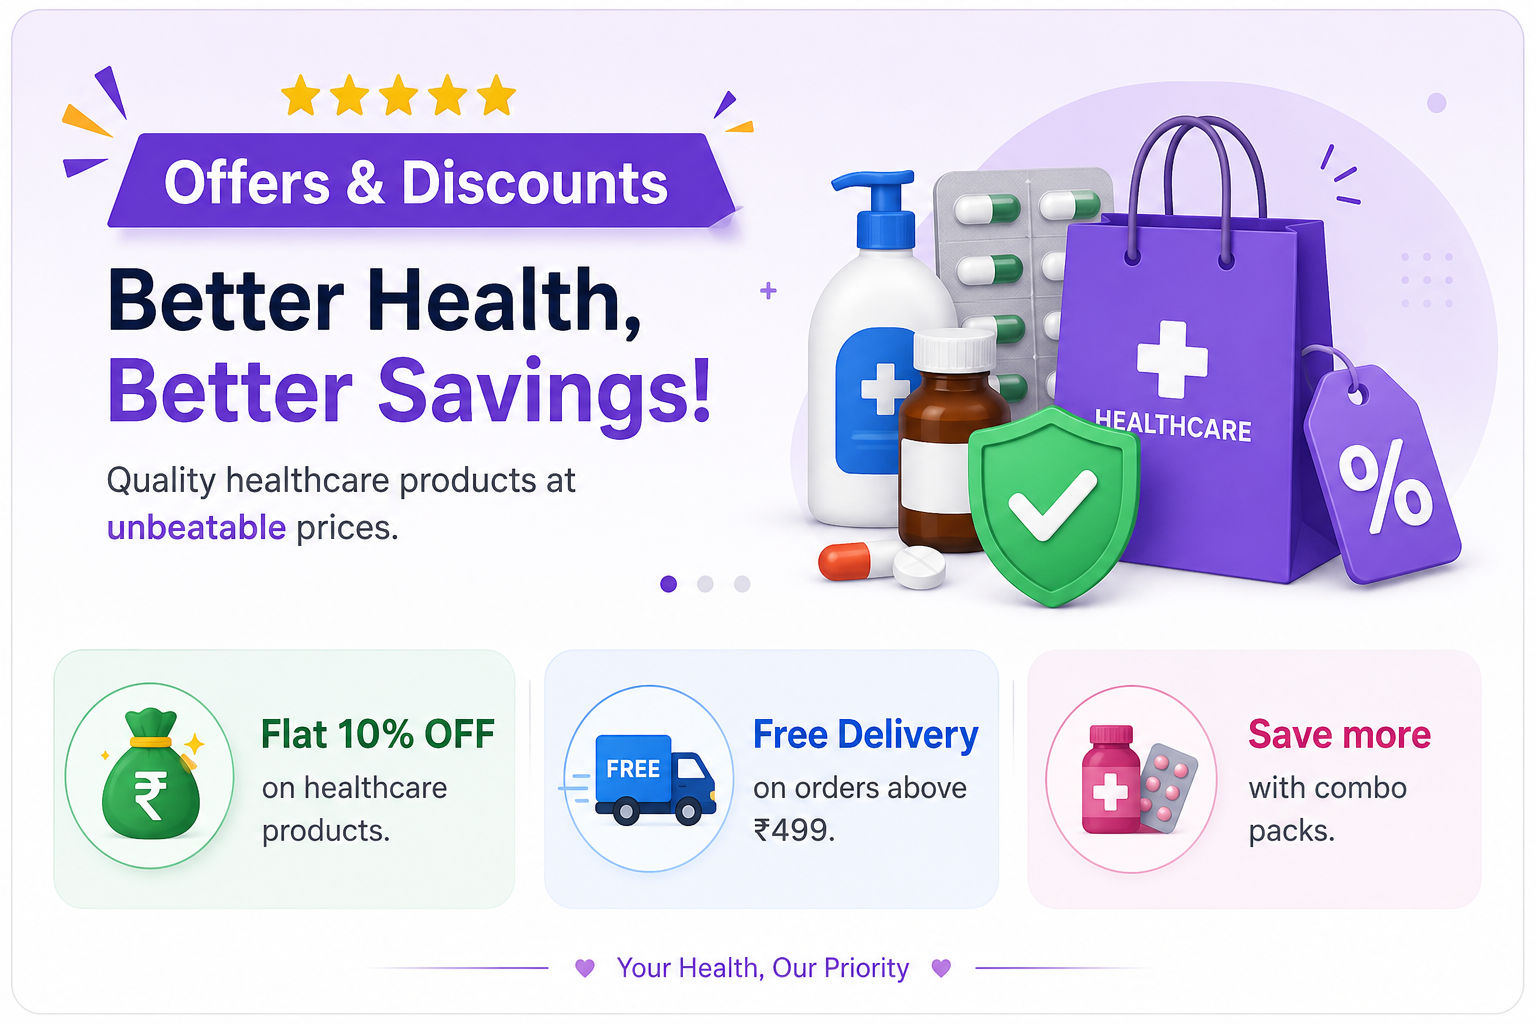
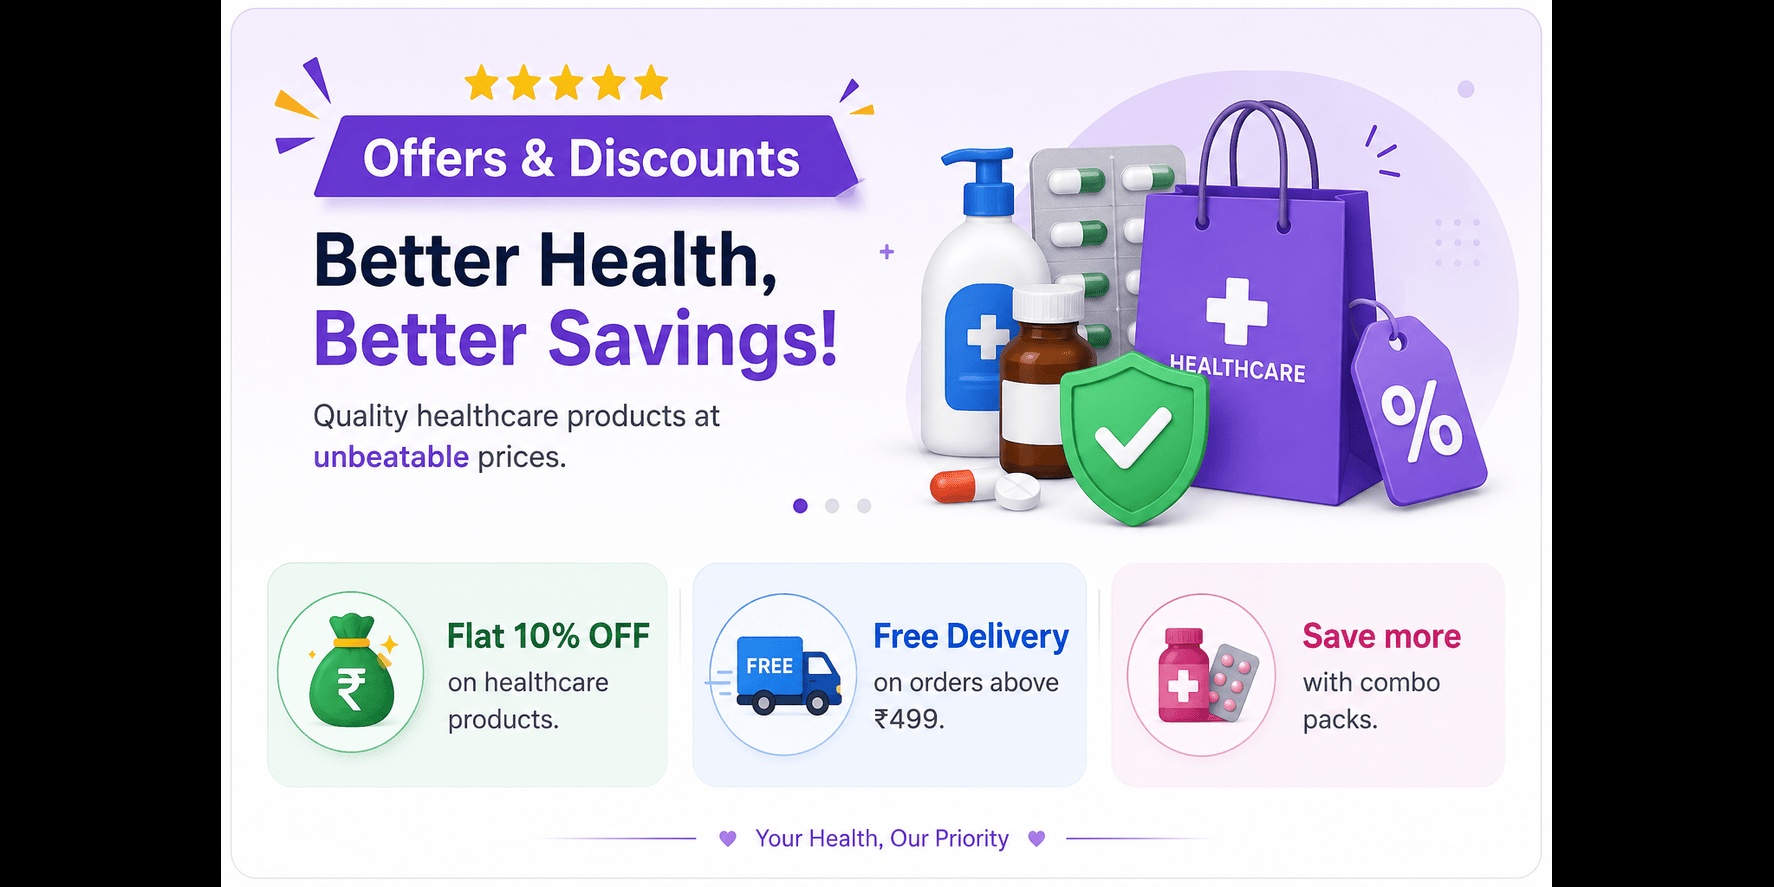
added a searchpage and its algorithm

diff --git a/lib/features/search/search_page.dart b/lib/features/search/search_page.dart
@@ -1,0 +1,57 @@
+import 'package:flutter/material.dart';
+import 'package:maruthimedical/core/widgets/medicine_card.dart';
+import 'package:maruthimedical/services/search_medicine.dart';
+// import 'package:maruthimedical/services/search_medicine.dart';
+
+class SearchPage extends StatefulWidget {
+  final List<Map<String, dynamic>> medicineData;
+  final String querry;
+  const SearchPage({super.key, required this.medicineData,required this.querry});
+
+  @override
+  State<SearchPage> createState() => _SearchPageState();
+}
+
+class _SearchPageState extends State<SearchPage> {
+  TextEditingController search = TextEditingController();
+  @override
+  Widget build(BuildContext context) {
+    return Scaffold(
+      appBar: AppBar(
+        title: Text(widget.querry),
+        leading: IconButton(
+          icon: const Icon(Icons.arrow_back_ios_new),
+          onPressed: () {
+            Navigator.pop(context);
+          },
+        ),
+      ),
+      body: SingleChildScrollView(
+        child: Column(
+          children: [
+            Padding(
+              padding: EdgeInsets.all(18),
+              child: SearchBar(
+                controller: search,
+                hintText: "Search medicines...",
+                leading: const Icon(Icons.search),
+                onSubmitted: (value) async {
+                  await searchMedicine(search.text, context);
+                },
+              ),
+            ),
+            SizedBox(height: 50),
+            Wrap(
+              spacing: 15,
+              runSpacing: 15,
+              children: widget.medicineData.map<Widget>(
+                    (medicines) => MyMedicineCard(medicine: medicines),
+                  )
+                  .toList(),
+            ),
+          ],
+        ),
+      ),
+    );
+  }
+}

diff --git a/lib/core/widgets/medicine_card.dart b/lib/core/widgets/medicine_card.dart
@@ -1,0 +1,44 @@
+import 'package:flutter/material.dart';
+import 'package:maruthimedical/core/widgets/button.dart';
+
+class MyMedicineCard extends StatelessWidget {
+  final Map<String, dynamic> medicine;
+  const MyMedicineCard({super.key, required this.medicine});
+
+  @override
+  Widget build(BuildContext context) {
+    return SizedBox(
+      height: 270,
+      width: 200,
+      child: Card(
+        child: Padding(
+          padding: EdgeInsets.all(15),
+          child: Column(
+            mainAxisAlignment: MainAxisAlignment.center,
+            crossAxisAlignment: CrossAxisAlignment.start,
+            children: [
+              Text(
+                medicine["name"],
+                style: Theme.of(context).textTheme.bodyMedium?.copyWith(
+                  fontSize: 20,
+                  fontWeight: FontWeight.bold,
+                ),
+              ),
+              Text(medicine["category"]),
+              Text(medicine["price"].toString()),
+              SizedBox(height: 20),
+              Button(
+                height: 40,
+                width: 150,
+                text: "Add to cart",
+                onpressed: () {},
+                icon: true,
+                sufixicon: Icons.shopping_cart_outlined,
+              ),
+            ],
+          ),
+        ),
+      ),
+    );
+  }
+}

diff --git a/lib/services/search_medicine.dart b/lib/services/search_medicine.dart
@@ -1,0 +1,34 @@
+import 'dart:convert';
+import 'package:flutter/material.dart';
+import 'package:flutter_dotenv/flutter_dotenv.dart';
+import 'package:http/http.dart' as http;
+import 'package:maruthimedical/features/search/search_page.dart';
+
+
+Future<void> searchMedicine(String query,BuildContext context) async{
+  try {
+    String apiUrl=dotenv.env["API_URL"]!;
+    final response=await http.get(
+      Uri.parse("$apiUrl/medicines/search/?query=$query"),
+      headers: {"Content-Type": "application/json"}
+    );
+    final data = jsonDecode(response.body);
+    if (response.statusCode == 200 && data["message"] == "Medicines fetched successfully") {
+      Navigator.push(
+        context,
+        MaterialPageRoute(builder: (context) =>SearchPage(querry:query,medicineData: List<Map<String, dynamic>>.from(data["data"]))),
+      );
+    }else {
+      ScaffoldMessenger.of(context).showSnackBar(
+        SnackBar(
+          content: Text(data["message"] ?? "Something went wrong"),
+          backgroundColor: Colors.red,
+        ),
+      );
+    }
+  } catch (e) {
+    ScaffoldMessenger.of(context).showSnackBar(
+      SnackBar(content: Text("Something went wrong :$e"),duration: Duration(seconds: 2),backgroundColor: Colors.red)
+    );
+  }
+}

diff --git a/lib/core/widgets/button.dart b/lib/core/widgets/button.dart
@@ -4,12 +4,16 @@ class Button extends StatefulWidget {
   final double height, width;
   final String text;
   final void Function()? onpressed;
+  final bool icon;
+  final IconData? sufixicon;
   const Button({
     super.key,
     required this.height,
     required this.width,
     required this.text,
     required this.onpressed,
+    this.icon=false,
+    this.sufixicon
   });
   @override
   State<StatefulWidget> createState() => _ButtonState();
@@ -19,7 +23,7 @@ class _ButtonState extends State<Button> {
   @override
   Widget build(BuildContext context) {
     return GestureDetector(
-      onTap:widget.onpressed,
+      onTap: widget.onpressed,
       child: Container(
         height: widget.height,
         width: widget.width,
@@ -39,9 +43,19 @@ class _ButtonState extends State<Button> {
           ),
         ),
         child: Center(
-          child: Text(
-            widget.text,
-            style: TextStyle(color: Colors.white, fontWeight: FontWeight.w500),
+          child: Row(
+            mainAxisAlignment: MainAxisAlignment.center,
+            children: [
+              Text(
+                widget.text,
+                style: TextStyle(
+                  color: Colors.white,
+                  fontWeight: FontWeight.w500,
+                ),
+              ),
+              if (widget.icon && widget.sufixicon != null)
+              Icon(widget.sufixicon,color: Colors.white,size: 16),
+            ],
           ),
         ),
       ),

diff --git a/lib/features/notification/notification.dart b/lib/features/notification/notification.dart
@@ -1,0 +1,22 @@
+import 'package:flutter/material.dart';
+
+class NotificationPage extends StatefulWidget {
+  const NotificationPage({super.key});
+
+  @override
+  State<NotificationPage> createState() => _NotificationPageState();
+}
+
+class _NotificationPageState extends State<NotificationPage> {
+  @override
+  Widget build(BuildContext context) {
+    return Scaffold(
+      appBar: AppBar(
+        title: Text("Notifications"),
+      ),
+      body: Center(
+        child: Text("No new notifications"),
+      ),
+    );
+  }
+}

diff --git a/lib/features/home/home_page.dart b/lib/features/home/home_page.dart
@@ -1,6 +1,7 @@
 import 'package:flutter/material.dart';
 import 'package:maruthimedical/core/widgets/carosel.dart';
-import 'package:maruthimedical/core/widgets/text_field.dart';
+import 'package:maruthimedical/services/search_medicine.dart';
+// import 'package:maruthimedical/core/widgets/text_field.dart';
 
 class HomePage extends StatefulWidget {
   const HomePage({super.key});
@@ -16,15 +17,19 @@ class _HomePageState extends State<HomePage> {
     return  SingleChildScrollView(
       child:Column(
           mainAxisAlignment: MainAxisAlignment.start,
+          crossAxisAlignment: CrossAxisAlignment.start,
           children: [
             SizedBox(height: 20),
-            MyTextField(
-              hintText: "Search medicines", 
-              height: 60, width: 380, 
-              prefixicon:Icons.search, 
-              controller: search, 
-              eyebutton:false, 
-              hideText: false
+            Padding(
+              padding: EdgeInsetsGeometry.all(18),
+              child:SearchBar(
+                  controller: search,
+                  hintText: "Search medicines...",
+                  leading: const Icon(Icons.search),
+                  onSubmitted: (value)async {
+                    await searchMedicine(search.text,context);
+                  }
+                ),
             ),
             SizedBox(height: 20),
             Carosel(),

diff --git a/lib/services/login_register.dart b/lib/services/login_register.dart
@@ -1,13 +1,14 @@
 import 'dart:convert';
 import 'package:http/http.dart' as http;
+import 'package:flutter_dotenv/flutter_dotenv.dart';
 import 'package:maruthimedical/features/home/home_screen.dart';
 import 'package:flutter/material.dart';
 
-
 Future<void> register(BuildContext context,TextEditingController usrname,TextEditingController phno,TextEditingController password) async {
   try {
+    String apiUrl = dotenv.env["API_URL"]!;
     final response = await http.post(
-      Uri.parse("http://192.168.1.5:8000/auth/register"),
+      Uri.parse("$apiUrl/auth/register"),
       headers: {"Content-Type": "application/json"},
       body: jsonEncode({
         "username": usrname.text.trim(),
@@ -46,8 +47,9 @@ Future<void> register(BuildContext context,TextEditingController usrname,TextEdi
 
 Future<void> login(BuildContext context,TextEditingController usrname,TextEditingController password) async{
   try{
+    String apiUrl = dotenv.env["API_URL"]!;
     final response=await http.post(
-      Uri.parse("http://192.168.1.5:8000/auth/login"),
+      Uri.parse("$apiUrl/auth/login"),
       headers: {"Content-Type": "application/json"},
       body: jsonEncode({
         "username": usrname.text.trim(),
@@ -56,6 +58,7 @@ Future<void> login(BuildContext context,TextEditingController usrname,TextEditin
     );
     final data=jsonDecode(response.body);
     if(response.statusCode==200 && data["message"]=="Login Successful"){
+      
       ScaffoldMessenger.of(context).showSnackBar(
         SnackBar(content: Text("Login Successful"),backgroundColor: Colors.green,duration: Duration(seconds: 2))
       );

diff --git a/lib/main.dart b/lib/main.dart
@@ -1,9 +1,12 @@
 import 'package:flutter/material.dart';
+import 'package:flutter_dotenv/flutter_dotenv.dart';
 import 'package:maruthimedical/theme/theme_providers.dart';
 import 'package:provider/provider.dart';
 import 'app.dart';
 
-void main() {
+Future<void> main() async {
+  WidgetsFlutterBinding.ensureInitialized();
+  await dotenv.load(fileName: ".env");
   runApp(
     ChangeNotifierProvider(
       create: (_) => ThemeProvider(),

diff --git a/lib/features/home/home_screen.dart b/lib/features/home/home_screen.dart
@@ -1,6 +1,7 @@
 import 'package:flutter/material.dart';
 import 'package:maruthimedical/features/home/home_page.dart';
 import 'package:maruthimedical/features/home/profile_page.dart';
+import 'package:maruthimedical/features/notification/notification.dart';
 import 'package:maruthimedical/theme/theme_providers.dart';
 import 'package:provider/provider.dart';
 import 'package:maruthimedical/features/authentication/login_screen.dart';
@@ -75,7 +76,7 @@ class _HomeScreenState extends State<HomeScreen> {
             icon: Icon(Icons.shopping_cart_outlined),
           ),
           IconButton(
-            onPressed: () {},
+            onPressed: ()=>Navigator.push(context, MaterialPageRoute(builder: (context)=>NotificationPage())),
             icon: Icon(Icons.notifications_outlined),
           ),
         ],